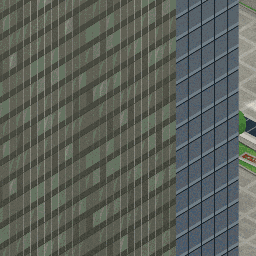
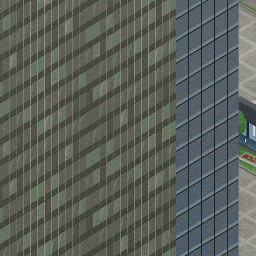
fix(teheran): rebuild the Samseong plaza to match street view
A full pass over the Naver street view frames showed the first version
was wrong in several places. The round Millennium Plaza is at grade, not
sunken: it has concentric paving, a dark stone kerb, groups of weathering
steel pylons and a polished steel sphere on a low plinth. The sunken part
is the crescent stair to the underground mall on its north-west side,
behind a white tiled parapet that rises to a prow at the south end.

The egg-shaped tower is silver-grey with a tilted metal hoop on top, not
white with a window. The white-rimmed rectangles are striped pavilions
standing in shallow pools, not skylights. Paving around the round plaza
is a multi-colour stone mosaic. The hotel forecourt has a row of
flagpoles and a pine garden instead of tents.

On the Teheran-ro side the yard now has the low grey wall, the folding
gate with the covered earth mound behind it and the near-vertical lattice
boom at the corner, and the roadside fence north of the bus stop is the
painted hoarding.

Tile 6_1 was re-rendered and patched onto the assets of 5d7ce945.

Changed region(s): [[0.9062, 0.375, 1.0, 0.625]]

diff --git a/src/maps.js b/src/maps.js
@@ -70,7 +70,7 @@ export const MAPS = {
       { name: '선릉·정릉', key: 'seolleung', vh: 460, note: '선릉과 정릉 — 빌딩 숲 속 조선 왕릉' },
       { name: '위워크타워', key: 'wework', vh: 260, note: '위워크타워 — 선릉과 포스코센터 사이' },
       { name: '삼성역', key: 'station_삼성', vh: 420, note: '삼성역 — GTX 복합환승센터와 현대차 신사옥 공사 현장' },
-      { name: '삼성역 광장', key: 'millennium', vh: 150, note: '삼성역 광장 — 코엑스 밀레니엄 광장의 선큰 마당과 달걀꼴 조형탑, 출구 앞 공사 야적장' },
+      { name: '삼성역 광장', key: 'millennium', vh: 150, note: '삼성역 광장 — 밀레니엄 광장의 강철 기둥과 은빛 구, 달걀꼴 조형탑, 출구 앞 공사 야적장' },
       { name: '코엑스', key: 'coex', vh: 420, note: '코엑스와 트레이드타워' },
       { name: '역삼역', key: 'station_역삼', vh: 340, note: '역삼역 — 강남파이낸스센터' },
       { name: '강남역', key: 'station_강남', vh: 380, note: '강남역 — 테헤란로가 시작하는 곳' },

diff --git a/pipeline3d/teheran/plaza_samseong.py b/pipeline3d/teheran/plaza_samseong.py
@@ -1,18 +1,18 @@
 # 삼성역 광장 빌더(무역센터 동남쪽 모퉁이). lm_build.py 끝에서 exec 로 읽는다(같은 전역: MB, mat_flat, skin, capf, obox, beam, taper, excavator, dumptruck, containers, _pits …).
 # 자리·윤곽은 scene.json 의 'samseong'(prep_extra.py 가 위성 사진에서 따 온 값), 여기서는 형태·높이·색을 정한다.
 # 네이버 지도 거리뷰(2026-07 촬영분: 영동대로 중앙 버스 정류장, 테헤란로 삼성역 사거리, 6번 출구 앞)와 위성 사진을 눈으로 보고 맞췄다. 사진은 저장소에 넣지 않았다. 글자·로고는 넣지 않는다.
-#   - 밀레니엄 광장: 타원꼴 선큰 마당(둘레 벽 = 지하 상가 전면, 서쪽 계단, 가운데 분수대), 그 남쪽의 달걀꼴 흰 조형탑
-#   - 코엑스 동측 광장: 회색 화강석 판석(5 m 마다 밝은 띠), 길가 잔디 띠와 엇갈린 잔디 네모, 아티움 앞 화단 띠와 붉은 꽃밭, 지하 상가 채광창, 가로등
+#   - 밀레니엄 광장: 지면 높이의 원형 광장(동심 판석, 검은 돌 턱, 둘레의 내후성 강판 기둥, 세 단 받침 위 스테인리스 구), 서북쪽을 감싸는 초승달꼴 내리막 계단(흰 난간벽), 남쪽의 달걀꼴 흰 조형탑
+#   - 코엑스 동측 광장: 회색 화강석 판석(5 m 마다 밝은 띠), 남쪽은 여러 색 돌 모자이크, 길가 잔디 띠와 엇갈린 잔디 네모, 아티움 앞 화단 띠와 붉은 꽃밭, 얕은 못 가운데 선 줄무늬 파빌리온, 붉은 꽃 화분, 가로등
 #   - 5·6번 출구 앞 모퉁이: 복합환승센터 공사 야적장(가림벽·색 블록 벽화 담장, 파란 천막 창고, 현장 사무실 컨테이너, 초록 방진 덮개 흙더미, 크롤러 크레인, 펌프카)
-#   - 호텔 앞: 둥근 화단과 흰 천막 줄, 유리 원형 지붕
-# 연출·추정: 선큰 마당 깊이(실제 약 5 m → 1.4 m), 조형탑 높이 17 m, 야적장 안 장비·자재의 자리와 수, 담장 벽화의 무늬, 가로등 자리.
+#   - 호텔 앞: 소나무 화단, 깃대 줄, 유리 원형 지붕, 테헤란로 가의 플라스틱 방호벽
+# 광장 안쪽은 공사 전(2017-08) 보행 거리뷰만 있어, 지금 위성 사진에 그대로 남아 있는 것(원형 광장·계단·파빌리온·조형탑)만 그 화면을 따랐다.
+# 연출·추정: 초승달 계단 깊이(실제 약 5 m → 1.4 m), 조형탑 높이 17 m, 기둥 수와 자리, 야적장 안 장비·자재의 자리와 수, 담장 벽화의 무늬, 가로등 자리.
 SS = S.get('samseong')
 if SS and inwin(SS['court']['c'], 45.0, 200.0):
     NVp, Q0p = np.array(SS['nv']), np.array(SS['q0']); EVp = np.array([NVp[1], -NVp[0]]); CRT = SS['court']; CC = np.array(CRT['c'])
     def rdp(s, d): return Q0p + NVp * s - EVp * d                       # 영동대로 남행 차로 중심선 기준(prep_extra 의 rd)
-    def EP(f, t, z): return (CC[0] + CRT['a'] * f * math.cos(t), CC[1] + CRT['b'] * f * math.sin(t), z)   # 선큰 마당 타원 위의 점(f = 반지름 비)
+    def EP(f, t, z): return (CC[0] + CRT['a'] * f * math.cos(t), CC[1] + CRT['b'] * f * math.sin(t), z)   # 원형 광장 타원 위의 점(f = 반지름 비)
     NE_ = 60; COURT = Polygon([EP(1.0, 2 * math.pi * k / NE_, 0)[:2] for k in range(NE_)])
-    STA0, STA1 = 150.0, 210.0                                           # 서쪽 계단이 놓이는 각도 범위
     def esec(a0=0.0, a1=360.0): return [(math.radians(k * 360 / NE_), math.radians((k + 1) * 360 / NE_)) for k in range(NE_) if a0 <= k * 360 / NE_ < a1]
     def ering(mb, f0, f1, z, m, a0=0.0, a1=360.0):                      # 수평 타원 고리(안 f0 → 밖 f1)
         for t0, t1 in esec(a0, a1): mb.face([EP(f0, t0, z), EP(f1, t0, z), EP(f1, t1, z), EP(f0, t1, z)], m)
@@ -45,7 +45,8 @@ if SS and inwin(SS['court']['c'], 45.0, 200.0):
         if not os.path.exists(p): im = Image.new('RGB', (w, h), bg); draw(ImageDraw.Draw(im), w, h); im.save(p)
         return p
 
-    # ---- 바닥: 화강석 판석(길 방향으로 놓인 1.25 m 판, 5 m 마다 밝은 띠). 지면 ID(1) → 분류 맵에서 보행 광장으로 읽힌다 ----
+    # ---- 바닥(지면 ID 1 → 분류 맵에서 보행 광장으로 읽힌다) ----
+    # 북쪽(코엑스 동측 광장): 밝은 회색 화강석 판석, 5 m 마다 밝은 띠. 남쪽(밀레니엄 광장 둘레): 베이지·분홍·회색·검은 돌이 섞인 모자이크 판석
     PM = 10.0
     def _pave(d, w, h):
         rnd = random.Random(7); q = w // 8
@@ -55,71 +56,97 @@ if SS and inwin(SS['court']['c'], 45.0, 200.0):
         bw = int(.34 * w / PM)
         for k in (0, 4):
             for c0 in ((k * q - bw, k * q + bw), (k * q - bw + w, k * q + bw + w)): d.rectangle([c0[0], 0, c0[1], h], fill='#ebeae4'); d.rectangle([0, c0[0], w, c0[1]], fill='#ebeae4')
-    pmat = mat_tex(tex_png('pave', 240, 240, '#d3d2cc', _pave), 'ss_pave')
+    def _mosaic(d, w, h):
+        rnd = random.Random(23); q = w // 8; cols = ['#dbd3c1'] * 5 + ['#cbcac0'] * 4 + ['#c78169'] * 2 + ['#b1968a'] + ['#8f9194'] * 2 + ['#e6e1d2'] * 2
+        for i in range(8):
+            for j in range(8): d.rectangle([i * q, j * q, (i + 1) * q - 1, (j + 1) * q - 1], fill=rnd.choice(cols))
+        for _ in range(9): i, j = rnd.randrange(7), rnd.randrange(8); d.rectangle([i * q, j * q, (i + 2) * q - 1, (j + 1) * q - 1], fill=rnd.choice(cols))   # 두 칸짜리 긴 판
+        d.rectangle([3 * q, 0, 3 * q + q // 2, h], fill='#7d7f82')   # 길 방향으로 이어지는 검은 돌 줄
+    pmat = mat_tex(tex_png('pave', 240, 240, '#d3d2cc', _pave), 'ss_pave'); mmat = mat_tex(tex_png('mosaic', 240, 240, '#dbd3c1', _mosaic), 'ss_mosaic')
     green = unary_union([Polygon(r) for r in list(SS['lawn'].values()) + list(SS['bed'].values())])
     road = unary_union([ln.buffer(r['w'] / 2 + .7, cap_style=2) for ln, r in _DRV if ln.distance(Point(*CC)) < 230] + [Point(0, 0).buffer(.01)])
-    slabp = P(SS['pave']).difference(unary_union([green, COURT.buffer(.35), road])).buffer(0)
+    ST = SS['stair']; SA0, SA1 = math.radians(ST['a0']), math.radians(ST['a1'])
+    def SP(t, out, z): return (CC[0] + ST['a'] * math.cos(t), CC[1] + ST['b'] * math.sin(t), z) if out else EP(ST['f'], t, z)   # 초승달 계단의 바깥·안쪽 호
+    NS = 28; STT = [SA0 + (SA1 - SA0) * k / NS for k in range(NS + 1)]
+    STAIR = Polygon([SP(t, True, 0)[:2] for t in STT] + [SP(t, False, 0)[:2] for t in STT[::-1]])
+    pools = unary_union([Polygon([np.array(w_['c']) + NVp * u * (w_['hl'] + 2.0) + EVp * v * (w_['hw'] + 2.0) for u, v in ((-1, -1), (1, -1), (1, 1), (-1, 1))]) for w_ in SS['pavs']])
+    slabp = P(SS['pave']).difference(unary_union([green, COURT, STAIR.buffer(.05), pools, road])).buffer(0); SOUTH = box(1000.0, 300.0, 1400.0, 547.5).intersection(Point(*CC).buffer(40.0))   # 모자이크 판석은 원형 광장 둘레만(그 밖은 회색 판석)
     mb = MB()
-    for g in parts(slabp):
-        if g.area < 1: continue
-        for t in shapely.constrained_delaunay_triangles(g).geoms:
-            q = list(orient(t, 1.0).exterior.coords)[:-1]
-            mb.face([(x, y, .03) for x, y in q], pmat, [(((x - Q0p[0]) * EVp[0] + (y - Q0p[1]) * EVp[1]) / PM, ((x - Q0p[0]) * NVp[0] + (y - Q0p[1]) * NVp[1]) / PM) for x, y in q])
+    for zone, m_ in ((slabp.difference(SOUTH), pmat), (slabp.intersection(SOUTH), mmat)):
+        for g in parts(zone):
+            if g.area < 1: continue
+            for t in shapely.constrained_delaunay_triangles(g).geoms:
+                q = list(orient(t, 1.0).exterior.coords)[:-1]
+                mb.face([(x, y, .03) for x, y in q], m_, [(((x - Q0p[0]) * EVp[0] + (y - Q0p[1]) * EVp[1]) / PM, ((x - Q0p[0]) * NVp[0] + (y - Q0p[1]) * NVp[1]) / PM) for x, y in q])
     for k, r in SS['lawn'].items(): curb(mb, Polygon(r), .22 if k != 'strip' else .16)
-    # 선큰 마당 바닥과 서쪽 계단(지면 ID): 동심 타원 띠, 계단은 디딤판 색을 번갈아 준다
-    FZ = -1.4; NST = 5; SF = .058   # 바닥 높이: 굽기(step_maps)가 −1.55 m 보다 낮은 지면을 물로 읽으므로 그보다 얕게 둔다
-    for f0, f1, col in ((.0, .34, '#bdb8ac'), (.34, .38, '#8f8c85'), (.38, .68, '#d6d2c7'), (.68, .72, '#8f8c85')): ering(mb, f0, f1, FZ, mat_flat(col))
-    ering(mb, .72, 1.0, FZ, mat_flat('#c8c3b7'), 0.0, STA0); ering(mb, .72, 1.0, FZ, mat_flat('#c8c3b7'), STA1, 360.0)
-    for k in range(NST):
-        zk = FZ * (k + 1) / NST; f_out, f_in = 1.0 - SF * k, 1.0 - SF * (k + 1)
-        if k < NST - 1: ering(mb, f_in, f_out, zk, mat_flat('#e2dfd6' if k % 2 else '#c9c5ba'), STA0, STA1)
-        ewall(mb, f_out, zk, FZ * k / NST, mat_flat('#aeaaa0'), STA0, STA1)
-    ering(mb, .72, 1.0 - SF * (NST - 1), FZ, mat_flat('#c8c3b7'), STA0, STA1)
+    # 원형 광장 바닥: 동심 띠(밝은 판석 사이 검은 돌 고리)
+    for f0, f1, col in ((.0, .30, '#c9c8c2'), (.30, .35, '#7d7f82'), (.35, .64, '#d5d3cb'), (.64, .69, '#7d7f82'), (.69, 1.0, '#c6c4bb')): ering(mb, f0, f1, .03, mat_flat(col))
+    # 초승달 계단(지면 ID): 남쪽 끝에서 내려가 북서쪽(에스컬레이터 덮개 밑)이 가장 낮고, 북쪽 끝에서 다시 올라온다
+    FZ = -1.4   # 바닥 높이: 굽기(step_maps)가 −1.55 m 보다 낮은 지면을 물로 읽으므로 그보다 얕게 둔다
+    SZ = [FZ * min(1.0, (k + 1) / 3.0, (NS - k) / 8.0) for k in range(NS)]   # 조각마다의 디딤판 높이(북쪽 세 단, 남쪽 일곱 단)
+    for k in range(NS):
+        t0, t1, z = STT[k], STT[k + 1], SZ[k]; zp = SZ[k - 1] if k else 0.0
+        mb.face([SP(t0, True, z), SP(t0, False, z), SP(t1, False, z), SP(t1, True, z)], mat_flat('#d9d6cd' if k % 2 else '#c6c3ba'))
+        if abs(z - zp) > .01: mb.face([SP(t0, False, min(z, zp)), SP(t0, True, min(z, zp)), SP(t0, True, max(z, zp)), SP(t0, False, max(z, zp))], mat_flat('#a9a69d'))
+    mb.face([SP(STT[NS], False, SZ[-1]), SP(STT[NS], True, SZ[-1]), SP(STT[NS], True, 0.0), SP(STT[NS], False, 0.0)], mat_flat('#a9a69d'))
     mb.build('ss_ground', 1)
 
-    # ---- 밀레니엄 광장: 둘레 벽(지하 상가 전면: 밝은 기둥 사이 짙은 유리), 돌 테두리 + 유리 난간, 분수대, 벤치, 파라솔 ----
-    def _arcade(d, w, h):   # 한 칸 3.2 m: 왼쪽 기둥, 위쪽 돌 띠, 유리 가운데 문틀 선
-        d.rectangle([0, 0, w, 7], fill='#e6e2d8'); d.rectangle([0, 0, 13, h], fill='#e0dcd2'); d.line([(13, 20), (w, 20)], fill='#5d6c7c', width=1); d.line([((w + 13) // 2, 8), ((w + 13) // 2, h)], fill='#5d6c7c', width=1)
-    mb = MB(); wtw, wth = 3.2, -FZ; am = mat_tex(tex_png('arcade', 77, 42, '#3a4756', _arcade), 'ss_arcade')
-    for a0, a1 in ((0.0, STA0), (STA1, 360.0)):
-        ewall(mb, 1.0, FZ, 0.0, am, a0, a1, wtw, wth); ering(mb, 1.0, 1.035, .14, mat_flat('#e9e6dd'), a0, a1)
-        for t0, t1 in esec(a0, a1):
-            a, b = EP(1.035, t0, 0), EP(1.035, t1, 0); mb.face([(a[0], a[1], 0), (b[0], b[1], 0), (b[0], b[1], .14), (a[0], a[1], .14)], mat_flat('#cfccc3'))
-            a, b = EP(1.02, t0, 0), EP(1.02, t1, 0); mb.face([(a[0], a[1], .14), (b[0], b[1], .14), (b[0], b[1], 1.15), (a[0], a[1], 1.15)], mat_flat('#7da8b8'))
-    for a_ in (STA0, STA1):   # 계단 양옆 날개벽
-        t = math.radians(a_); p0, p1 = EP(1.0, t, 0), EP(1.0 - SF * (NST - 1), t, 0); mb.face([(p1[0], p1[1], FZ), (p0[0], p0[1], FZ), (p0[0], p0[1], .14), (p1[0], p1[1], FZ + .5)], mat_flat('#dcd8ce'))
-    mb.cyl((CC[0], CC[1], FZ), 2.9, .42, mat_flat('#8c8f92'), mat_flat('#a3a6a8'), n=24); mb.cyl((CC[0], CC[1], FZ + .42), 2.35, .06, mat_flat('#7cbefa'), n=24)   # 분수대
-    mb.cyl((CC[0], CC[1], FZ + .4), .42, 2.3, mat_flat('#d2d6d8'), n=10); blob(mb, (CC[0], CC[1], FZ + 3.3), .95, mat_flat('#e3e6e7'), 1.0, 10)
-    for k in range(8):
-        t = math.radians(22.5 + k * 45); p = EP(.53, t, FZ); mb.box(p, 1.15, .28, .45, mat_flat('#756049'), t + math.pi / 2, mat_flat('#998666'))
-    for k, col in enumerate(('#fbfaf2', '#b6573c', '#fbfaf2', '#6ea8dd', '#fbfaf2', '#efbe3e')):   # 북동쪽 벽 앞 파라솔(상가 앞 자리)
-        t = math.radians(18 + k * 21); p = EP(.86, t, FZ); mb.cyl(p, .06, 2.1, mat_flat('#8d9296'), n=5); taper(mb, p, np.array([1.0, 0.0]), 1.35, 1.35, .08, .08, FZ + 2.0, FZ + 2.75, mat_flat(col))
-    toonify(mb.build('ss_court', 9760)); META[9760] = 'landmark:millennium'
-    _pits.append(COURT); NOSKIRT = COURT.buffer(3.0)   # 지면 판에서 타원을 도려내고, 비탈 대신 위의 수직 벽을 쓴다
+    # ---- 밀레니엄 광장: 원형 광장의 돌 턱, 강철 기둥(내후성 강판, 높이 7–8 m), 계단꼴 받침 위 스테인리스 구, 초승달 계단의 흰 난간벽 ----
+    mb = MB()
+    for a0, a1 in ((340.0, 360.0), (0.0, 20.0), (70.0, 95.0), (235.0, 290.0)):   # 검은 화강석 턱(앉는 높이). 나머지 둘레는 열려 있다
+        ewall(mb, 1.0, 0.0, .45, mat_flat('#5d6166'), a0, a1); ering(mb, 1.0, 1.05, .45, mat_flat('#6f7377'), a0, a1)
+        for t0, t1 in esec(a0, a1): a, b = EP(1.05, t0, 0), EP(1.05, t1, 0); mb.face([(a[0], a[1], 0), (b[0], b[1], 0), (b[0], b[1], .45), (a[0], a[1], .45)], mat_flat('#5d6166'))
+    for k, a_ in enumerate((18, 30, 41, 53, 66, 80, 196, 208, 221, 235, 250, 263, 277)):   # 강철 기둥: 북동쪽과 남서쪽에 두 무리로 줄지어 선다(거리뷰에서 센 수는 열두어 개)
+        t = math.radians(a_); p = EP(.78 + .05 * (k % 2), t, 0); tg = np.array([-math.sin(t), math.cos(t)]); obox(mb, p[:2], tg, .32, .16, 0, 4.4 + (k * 7 % 5) * .45, mat_flat('#523d2d'), mat_flat('#67523e'))
+    for r_, z_ in ((2.6, .0), (1.9, .18)): mb.cyl((CC[0], CC[1], z_ + .03), r_, .18, mat_flat('#55595e'), mat_flat('#6f7377'), n=24)   # 낮고 검은 두 단 받침
+    blob(mb, (CC[0], CC[1], .4 + 1.15), 1.15, mat_flat('#dde3e3'), 1.0, 14)                                                                # 스테인리스 구
+    for a0, a1 in ((120.0, 170.0), (296.0, 334.0)):   # 둘레 안쪽의 긴 곡선 벤치
+        for t0, t1 in esec(a0, a1): a, b = EP(.93, t0, .03), EP(.93, t1, .03); beam(mb, (a[0], a[1], .42), (b[0], b[1], .42), .5, mat_flat('#756049'), .1); beam(mb, (a[0], a[1], .2), ((a[0] + b[0]) / 2, (a[1] + b[1]) / 2, .2), .12, mat_flat('#55595e'), .4)
+    wm = mat_flat('#f1efe9')
+    def ph(k): return 1.2 + 2.3 * max(0.0, (k - (NS - 6)) / 6.0)   # 난간벽 높이: 남쪽 끝으로 갈수록 솟는 흰 뱃머리꼴(거리뷰: 사람 키의 두 배쯤)
+    for k in range(NS):   # 초승달 계단 둘레: 구덩이 안쪽 벽 + 흰 타일 난간벽
+        t0, t1 = STT[k], STT[k + 1]; h0, h1 = ph(k), ph(k + 1)
+        for out in (True, False):
+            a, b = np.array(SP(t0, out, 0)[:2]), np.array(SP(t1, out, 0)[:2]); sg = .32 if out else -.32
+            na, nb = (a - CC) / np.hypot(*(a - CC)) * sg, (b - CC) / np.hypot(*(b - CC)) * sg; oa, ob = a + na, b + nb
+            q = [(*a, FZ), (*b, FZ), (*b, h1), (*a, h0)]; mb.face(q[::-1] if out else q, wm)            # 계단 쪽 면
+            q = [(*oa, 0), (*ob, 0), (*ob, h1), (*oa, h0)]; mb.face(q if out else q[::-1], wm)           # 광장 쪽 면
+            mb.face([(*a, h0), (*b, h1), (*ob, h1), (*oa, h0)], mat_flat('#fbfaf5'))
+    a, b = SP(STT[NS], True, 0), SP(STT[NS], False, 0); mb.face([(a[0], a[1], 0), (b[0], b[1], 0), (b[0], b[1], ph(NS)), (a[0], a[1], ph(NS))], wm)   # 남쪽 끝 마구리
+    o_ = toonify(mb.build('ss_court', 9760)); smooth_obj(o_, 40.0); META[9760] = 'landmark:millennium'
+    _pits.append(STAIR); NOSKIRT = STAIR.buffer(3.0)   # 지면 판에서 계단 자리를 도려내고, 비탈 대신 위의 수직 벽을 쓴다
 
-    # ---- 달걀꼴 조형탑: 흰 돌 켜, 위쪽에 남쪽을 보는 푸른 타원 창 ----
+    # ---- 달걀꼴 조형탑(거리뷰: 은회색 판을 켜켜이 붙인 길쭉한 달걀꼴, 꼭대기에 비스듬히 걸친 금속 고리, 낮고 검은 둥근 받침) ----
     eg = SS['egg']; ex_, ey_ = eg['c']; EH, ER = eg['h'], eg['r']; mb = MB(); n = 18; prev = None
-    def er(t): return ER * (.70 + .30 * math.sin(math.pi / 2 * t / .58)) if t < .58 else ER * math.sqrt(max(0.0, 1 - ((t - .58) / .42) ** 2.3))
-    mb.cyl((ex_, ey_, 0), ER * 1.45, .3, mat_flat('#bdbab1'), mat_flat('#d5d2c9'), n=20)
-    NR = 16
+    def er(t): return ER * (.52 + .48 * math.sin(math.pi / 2 * t / .42)) if t < .42 else ER * max(0.0, 1 - ((t - .42) / .58) ** 2.0) ** .62   # 아래 2/5 가 가장 굵고 위로 뾰족하게 준다
+    mb.cyl((ex_, ey_, 0), ER * 1.5, .35, mat_flat('#55595e'), mat_flat('#6f7377'), n=20)
+    NR = 18
     for j in range(NR + 1):
-        t = j / NR; r_ = max(.05, er(t)); ring = [(ex_ + r_ * math.cos(2 * math.pi * k / n), ey_ + r_ * math.sin(2 * math.pi * k / n), .3 + EH * t) for k in range(n)]
+        t = j / NR; r_ = max(.05, er(t)); ring = [(ex_ + r_ * math.cos(2 * math.pi * k / n), ey_ + r_ * math.sin(2 * math.pi * k / n), .35 + EH * t) for k in range(n)]
         if prev:
-            m_ = mat_flat('#ecebe6' if j % 2 else '#deddd6')
+            m_ = mat_flat('#d5d1c3' if j % 2 else '#c6c4bb')
             for k in range(n): mb.face([prev[k], prev[(k + 1) % n], ring[(k + 1) % n], ring[k]], m_)
         prev = ring
-    mb.face(prev, mat_flat('#ecebe6'))
-    ed = np.array([-.22, -.975]); ed /= np.hypot(*ed); eu = np.array([-ed[1], ed[0]]); tz = .73; rz = er(tz)   # 창: 표면보다 조금 밖에, 위로 젖혀서
-    for rr_, col, off in ((1.0, '#394f63', .06), (.8, '#6ea8dd', .12)):
-        cen = np.array([ex_ + ed[0] * (rz + off), ey_ + ed[1] * (rz + off), .3 + EH * tz])
-        mb.face([tuple(cen + np.array([*(eu * 1.25 * rr_ * math.cos(a)), 0]) + np.array([*(-ed * .2), .98]) * 1.9 * rr_ * math.sin(a)) for a in np.linspace(0, 2 * math.pi, 14, endpoint=False)], mat_flat(col))
+    mb.face(prev, mat_flat('#d5d1c3'))
+    ed = np.array([-.22, -.975]); ed /= np.hypot(*ed); eu = np.array([-ed[1], ed[0]]); hc = np.array([ex_, ey_, .35 + EH * .88])   # 고리: 꼭대기를 남쪽으로 기울여 두른 금속 띠
+    hp = [tuple(hc + np.array([*(eu * 2.3 * math.cos(a)), 0]) + np.array([*(ed * .55), .84]) * 2.9 * math.sin(a)) for a in np.linspace(0, 2 * math.pi, 20, endpoint=False)]
+    for k in range(20): beam(mb, hp[k], hp[(k + 1) % 20], .42, mat_flat('#6f7377'))
     o_ = toonify(mb.build('ss_egg', 9761)); smooth_obj(o_, 60.0); META[9761] = 'landmark:plaza_art'
 
-    # ---- 광장 시설: 채광창, 에스컬레이터 덮개, 꽃밭, 가로등, 벤치, 호텔 앞 화단·천막·유리 지붕 ----
+    # ---- 광장 시설: 파빌리온, 화분, 에스컬레이터 덮개, 꽃밭, 가로등, 벤치, 호텔 앞 화단·천막·유리 지붕 ----
     mb = MB()
-    for w_ in SS['wells']:   # 지하 상가 채광창: 흰 돌 턱 + 짙은 유리(멀리언 두 줄)
-        c = np.array(w_['c']); obox(mb, c, NVp, w_['hl'], w_['hw'], 0, .85, mat_flat('#d9d6cd'), mat_flat('#ecebe5')); obox(mb, c, NVp, w_['hl'] - .55, w_['hw'] - .55, .85, .9, mat_flat('#33404e'), mat_flat('#3d4b5b'))
-        for o in (-1, 0, 1): obox(mb, c + NVp * o * w_['hl'] * .5, NVp, .09, w_['hw'] - .55, .9, .95, mat_flat('#9aa5ad'))
+    def _stripe(d, w, h):   # 4.4 m 한 벌: 청록 벽에 검은 띠 둘, 위쪽 흰 세로 날개 둘
+        for x0_ in (.25, .75): d.rectangle([int(w * x0_), 0, int(w * (x0_ + .125)), h], fill='#22272b')
+        for x0_ in (.09, .59): d.rectangle([int(w * x0_), 0, int(w * (x0_ + .07)), int(h * .62)], fill='#f1efe9')
+        d.rectangle([0, h - 5, w, h], fill='#2f3438')
+    sm = mat_tex(tex_png('stripe', 106, 82, '#7da8b8', _stripe), 'ss_stripe')
+    for w_ in SS['pavs']:   # 얕은 못(검은 돌 턱 + 물) 가운데 선 줄무늬 파빌리온. 거리뷰: 청록 판에 검은 띠와 흰 세로 날개, 짙은 평지붕
+        c = np.array(w_['c']); obox(mb, c, NVp, w_['hl'] + 2.0, w_['hw'] + 2.0, 0, .34, mat_flat('#5d6166'), mat_flat('#6f7377')); obox(mb, c, NVp, w_['hl'] + 1.65, w_['hw'] + 1.65, .34, .36, mat_flat('#7da8b8'), mat_flat('#7da8b8'))
+        g = orient(Polygon([c + NVp * u * w_['hl'] + EVp * v * (w_['hw'] - .2) for u, v in ((-1, -1), (1, -1), (1, 1), (-1, 1))]), 1.0); skin(mb, g, .3, lambda x, y: 3.5, sm, 4.4, 3.4)
+        obox(mb, c, NVp, w_['hl'] + .3, w_['hw'] + .1, 3.5, 3.7, mat_flat('#3b4046'), mat_flat('#4a5057'))
+        for u, v in ((-.6, 1), (.2, 1), (.7, -1), (-.2, -1)): q = c + NVp * u * (w_['hl'] + 1.0) + EVp * v * (w_['hw'] + 1.0); mb.cyl((q[0], q[1], .36), .07, .5, mat_flat('#fdfdf3'), n=4)   # 분수 물줄기
+    for p in ((1180.5, 542.0), (1199.5, 541.0), (1207.0, 527.5), (1176.5, 499.5), (1196.0, 567.5), (1189.5, 589.0), (1181.0, 608.0)):   # 붉은 꽃을 심은 큰 화분(검은 대접꼴)
+        taper(mb, p, np.array([1.0, 0.0]), .55, .55, 1.25, 1.25, 0, .65, mat_flat('#3b4046')); blob(mb, (p[0], p[1], .7), 1.15, mat_flat('#b6573c'), .45, 8); blob(mb, (p[0] + .3, p[1] - .2, .85), .6, mat_flat('#c78169'), .5, 6)
     cn = SS['canopy']; ca = np.array(cn['ax']) / np.hypot(*cn['ax']); cv = np.array([-ca[1], ca[0]]); c = np.array(cn['c'])   # 덮개: 유리 벽 + 둥근 유리 지붕
     for sv in (-1, 1): obox(mb, c + cv * sv * cn['hw'], ca, cn['hl'], .08, 0, 2.5, mat_flat('#7da8b8'))
     prof_ = [(cn['hw'] * math.cos(math.pi * j / 6), 2.5 + 1.0 * math.sin(math.pi * j / 6)) for j in range(7)]
@@ -139,30 +166,21 @@ if SS and inwin(SS['court']['c'], 45.0, 200.0):
     def lamp(p, h=7.0):
         mb.cyl((p[0], p[1], 0), .11, h, mat_flat('#59616a'), n=5); mb.box((p[0], p[1], h), .55, .2, .16, mat_flat('#e9ecee'), math.atan2(NVp[1], NVp[0]) + math.pi / 2)
     for s_ in np.arange(104.0, 212.0, 15.0): lamp(rdp(s_, SS['edge'] + 6.2))                               # 길가 가로등 줄
-    for a_ in (35, 80, 125, 235, 280, 325): lamp(EP(1.2, math.radians(a_), 0)[:2], 6.0)                    # 선큰 마당 둘레
+    for a_ in (35, 55, 305, 335): lamp(EP(1.32, math.radians(a_), 0)[:2], 6.0)                              # 원형 광장 동쪽 둘레
     for s_, d_ in ((112.0, 16.5), (126.0, 20.5), (140.0, 15.5), (156.0, 15.0), (170.0, 14.5)):             # 벤치(길 방향)
         p = rdp(s_, d_); obox(mb, p, NVp, 1.2, .26, 0, .45, mat_flat('#756049'), mat_flat('#998666'))
-    tn = SS['tents']; tc = np.array(tn['c'])
-    def tent(p, ang, s=2.25):   # 흰 사각뿔 천막
-        ax = np.array([math.cos(ang), math.sin(ang)]); nv = np.array([-ax[1], ax[0]])
-        for u, v in ((-1, -1), (1, -1), (1, 1), (-1, 1)): q = np.array(p) + ax * u * (s - .15) + nv * v * (s - .15); mb.cyl((q[0], q[1], 0), .06, 2.5, mat_flat('#a9adb0'), n=4)
-        obox(mb, p, ax, s, s, 2.45, 2.7, mat_flat('#eeece6')); taper(mb, p, ax, s, s, .12, .12, 2.7, 4.3, mat_flat('#f6f4ee'))
-    for k in range(tn['n']):
-        a_ = math.radians(tn['a0'] + (tn['a1'] - tn['a0']) * k / (tn['n'] - 1)); tent(tc + tn['r'] * np.array([math.cos(a_), math.sin(a_)]), a_)
-    for p in tn['more']: tent(p, math.atan2(NVp[1], NVp[0]))
+    for k, p in enumerate(SS['flags']):   # 호텔 진입로의 깃대 줄(거리뷰: 흰 깃대 여덟 개 남짓)
+        mb.cyl((p[0], p[1], 0), .08, 9.0, mat_flat('#eceae4'), n=5); fd_ = np.array([.94, .34]) * 1.5
+        mb.face([(p[0], p[1], 7.6), (p[0] + fd_[0], p[1] + fd_[1], 7.6), (p[0] + fd_[0], p[1] + fd_[1], 8.8), (p[0], p[1], 8.8)], mat_flat(('#fdfdf3', '#6ea8dd', '#fdfdf3', '#b6573c')[k % 4]))
+    for k in range(4): p = SS['stone']; obox(mb, np.array(p) + np.array([.12, -.08]) * (k % 2), (math.cos(.3 * k), math.sin(.3 * k)), .62, .62, k * 1.2, k * 1.2 + 1.15, mat_flat('#caaf88' if k % 2 else '#dbc197'))   # 돌을 쌓아 올린 조형 기둥
+    for k in range(24): p = np.array([1147.0, 445.6]) + np.array([.96, .28]) * k * 1.5; mb.box((p[0], p[1], 0), .7, .25, .85, mat_flat('#b6573c' if k % 2 else '#f3f1ea'), math.atan2(.28, .96))   # 테헤란로 가 플라스틱 방호벽(주황·흰색)
     dm = SS['dome']; dc = np.array(dm['c'])   # 호텔 차 대는 곳의 유리 원형 지붕
     for k in range(6): a_ = 2 * math.pi * k / 6; mb.cyl((dc[0] + (dm['r'] - .6) * math.cos(a_), dc[1] + (dm['r'] - .6) * math.sin(a_), 0), .16, 5.2, mat_flat('#c9cdd0'), n=6)
     mb.cyl((dc[0], dc[1], 5.2), dm['r'], .35, mat_flat('#c9cdd0'), mat_flat('#6ea8dd'), n=24); mb.cyl((dc[0], dc[1], 5.55), dm['r'] * .55, .3, mat_flat('#7da8b8'), mat_flat('#7cbefa'), n=24)
     toonify(mb.build('ss_kit', 9763)); META[9763] = 'landmark:plaza_kit'
 
-    # ---- 길가 가림벽(광장과 영동대로 사이): 흰 강판 + 옥색 방음망. 야적장 북쪽 끝에서 꽃밭 앞까지 ----
-    mb = MB(); fl = LineString([rdp(93.0, SS['edge'] - .15), rdp(214.0, SS['edge'] - .15)])
-    wallrun(mb, fl, 0, 2.4, mat_flat('#eceae4'), .22); wallrun(mb, fl, 2.4, 3.5, mat_flat('#8fd9b6'), .08)
-    for s_ in np.arange(0, fl.length, 6.0): p = fl.interpolate(float(s_)); mb.cyl((p.x, p.y, 0), .09, 3.6, mat_flat('#9aa1a6'), n=4)
-    mb.build('ss_fence', 9765); META[9765] = 'landmark:site_fence'
-
-    # ---- 공사 야적장 ----
-    yard = Polygon(SS['yard']); mb = MB(); rnd = random.Random(1282)
+    # ---- 길가 가림벽(광장과 영동대로 사이). 거리뷰: 버스 정류장 뒤는 흰 강판 + 옥색 방음망, 그 북쪽은 색 글자 벽화를 그린 흰 담장 ----
+    mb = MB(); rnd = random.Random(1282)
     def _mural(dark):
         def f(d, w, h):
             r_ = random.Random(31 if dark else 17); cols = ['#5cac83', '#b6573c', '#efbe3e', '#394f63', '#6ea8dd'] + (['#f3f1ea'] * 2 if dark else [])
@@ -177,18 +195,28 @@ if SS and inwin(SS['court']['c'], 45.0, 200.0):
         return f
     MW_ = 24.0; mwh = mat_tex(tex_png('mural_w', 576, 62, '#f3f1ea', lambda d, w, h: (d.rectangle([0, h - 9, w, h], fill='#efbe3e'), _mural(False)(d, w, h))), 'ss_mural_w')
     mbk = mat_tex(tex_png('mural_k', 576, 62, '#1f2126', lambda d, w, h: (d.rectangle([0, h - 9, w, h], fill='#efbe3e'), _mural(True)(d, w, h))), 'ss_mural_k')
-    gate = Point(1188.0, 456.5).buffer(4.5); ring = yard.buffer(-.35).exterior.difference(gate)
+    fl = LineString([rdp(93.0, SS['edge'] - .15), rdp(152.0, SS['edge'] - .15)]); fl2 = LineString([rdp(152.0, SS['edge'] - .15), rdp(214.0, SS['edge'] - .15)])
+    wallrun(mb, fl, 0, 2.4, mat_flat('#eceae4'), .22); wallrun(mb, fl, 2.4, 3.5, mat_flat('#8fd9b6'), .08); wallrun(mb, fl2, 0, 2.6, mwh, .25, MW_, 2.6)
+    for s_ in np.arange(0, fl.length, 6.0): p = fl.interpolate(float(s_)); mb.cyl((p.x, p.y, 0), .09, 3.6, mat_flat('#9aa1a6'), n=4)
+    mb.build('ss_fence', 9765); META[9765] = 'landmark:site_fence'
+
+    # ---- 공사 야적장 ----
+    yard = Polygon(SS['yard']); mb = MB()
+    gl = LineString([(1199.9, 461.2), (1221.9, 469.5)]); gate = gl.buffer(1.3, cap_style=2); ring = yard.buffer(-.35).exterior.difference(gate)   # 테헤란로 쪽 출입문 자리
     maj = unary_union([ln for ln, r in _DRV if r['cls'] == 'major' and r['hw'] != 'primary_link' and ln.distance(yard) < 30]); th_ = unary_union([ln for ln, r in _DRV if r['name'] == '테헤란로' and ln.distance(yard) < 30])
     for ln in lines(ring):
         cs = list(ln.coords)
         for a, b in zip(cs[:-1], cs[1:]):
             seg = LineString([a, b]); mid = seg.interpolate(.5, normalized=True)
             if seg.length < .1: continue
-            if mid.distance(maj) < 12.5:   # 길 쪽: 벽화 담장(테헤란로 쪽 동쪽 절반은 검은 바탕)
-                dark = mid.distance(th_) < 12.5 and mid.x > 1205; wallrun(mb, seg, 0, 2.6, mbk if dark else mwh, .25, MW_, 2.6, flip=True)
+            if mid.distance(maj) < 12.5 and mid.distance(th_) < 12.5 and mid.x < 1200: wallrun(mb, seg, 0, 2.0, mat_flat('#c6c4bb'), .3)   # 테헤란로 서쪽 구간: 낮은 회색 가벽
+            elif mid.distance(maj) < 12.5:   # 길 쪽: 벽화 담장(테헤란로 쪽은 검은 바탕)
+                wallrun(mb, seg, 0, 2.6, mbk if mid.distance(th_) < 12.5 else mwh, .25, MW_, 2.6)
             else: wallrun(mb, seg, 0, 2.4, mat_flat('#eceae4'), .22); wallrun(mb, seg, 2.4, 3.5, mat_flat('#8fd9b6'), .08)
-    for sv in (-1, 1):   # 출입문 옆 주황 물통 방호벽
-        for k in range(3): p = np.array([1188.0, 456.5]) + np.array([.94, .35]) * sv * (5.2 + k * 1.1); mb.box((p[0], p[1], 0), .45, .3, .9, mat_flat('#efbe3e' if k % 2 else '#f3f1ea'))
+    gd = np.array(gl.coords[1]) - np.array(gl.coords[0]); gL = float(np.hypot(*gd)); gd /= gL   # 접이식 출입문(스테인리스 마름모 살): 기둥 + 엇갈린 살
+    for k in range(int(gL // 1.1) + 1):
+        p0 = np.array(gl.coords[0]) + gd * k * 1.1; mb.cyl((p0[0], p0[1], 0), .05, 1.75, mat_flat('#c1beb5'), n=4)
+        if k < int(gL // 1.1): p1 = p0 + gd * 1.1; beam(mb, (*p0, .25), (*p1, 1.6), .06, mat_flat('#cbcac0')); beam(mb, (*p0, 1.6), (*p1, .25), .06, mat_flat('#cbcac0'))
     FD = np.array(SS['fence'][2]) - np.array(SS['fence'][1]); FD /= np.hypot(*FD); FN = np.array([FD[1], -FD[0]])   # 서쪽 가림벽 방향(북북동)과 그 오른쪽(야적장 안쪽)
     def shed(c, ax, hl, hw, h, roof, wall='#dfe3e6'):   # 천막·판넬 창고: 낮은 벽 + 박공 지붕
         ax = np.array(ax) / np.hypot(*ax); nv = np.array([-ax[1], ax[0]]); c = np.array(c); obox(mb, c, ax, hl, hw, 0, h, mat_flat(wall))
@@ -211,17 +239,17 @@ if SS and inwin(SS['court']['c'], 45.0, 200.0):
             for j in range(rnd.randrange(1, 4)): obox(mb, np.array(p) + nv * i * (sy * 2 + .35), d, sx, sy, j * hz, j * hz + hz - .05, mat_flat(shade(col, 1 + rnd.uniform(-.08, .08))))
     ta = math.atan2(.352, .936)   # 테헤란로 방향
     stack((1241.0, 487.5), ta, 5, '#a9adb0'); stack((1244.5, 492.5), ta, 4, '#b9bcbd'); stack((1221.5, 482.5), ta, 4, '#a9adb0', 1.3)
-    stack((1168.0, 458.5), ta, 5, RUST, 2.6, .5, .4); stack((1200.0, 466.0), ta, 4, '#8d8f8c', 2.2, .6, .5); stack((1226.0, 474.5), ta, 3, '#c9a56a', 1.5, .9, .5)
-    for p_, n_ in (((1158.0, 462.0), 2), ((1209.0, 483.0), 3), ((1247.0, 501.5), 2)): containers(mb, p_, ta + (math.pi / 2 if n_ == 2 else 0), n_, rnd, 1)
-    for p_, s_ in (((1193.5, 480.0), 3.4), ((1215.0, 471.0), 2.8), ((1236.5, 482.0), 2.4)): obox(mb, p_, (math.cos(ta), math.sin(ta)), s_, 1.6, 0, 1.3, mat_flat('#47627c'), mat_flat('#6183a3'))   # 파란 방수포 덮은 자재
-    mc = np.array([1177.5, 467.0]); prev = None   # 초록 방진 덮개를 씌운 흙더미
+    stack((1168.0, 458.5), ta, 5, RUST, 2.6, .5, .4); stack((1178.0, 463.5), ta, 4, '#8d8f8c', 2.2, .6, .5); stack((1227.5, 476.0), ta, 3, '#f1efe9', 1.5, .9, .5)   # 철근, 강관, 흰 가림판 더미
+    for p_, n_ in (((1158.0, 462.0), 2), ((1229.0, 498.0), 3), ((1247.0, 501.5), 2)): containers(mb, p_, ta + (math.pi / 2 if n_ == 2 else 0), n_, rnd, 1)
+    for p_, s_ in (((1184.0, 476.5), 3.4), ((1193.0, 470.0), 2.8), ((1236.5, 482.0), 2.4)): obox(mb, p_, (math.cos(ta), math.sin(ta)), s_, 1.6, 0, 1.3, mat_flat('#47627c'), mat_flat('#6183a3'))   # 파란 방수포 덮은 자재
+    mc = np.array([1209.0, 477.0]); prev = None   # 초록 방진 덮개를 씌운 흙더미(거리뷰: 출입문 바로 뒤)
     for j, (rf, zf) in enumerate(((1.0, 0.0), (.78, .5), (.5, .86), (.2, 1.0))):
-        ring_ = [(mc[0] + 8.5 * rf * math.cos(2 * math.pi * k / 11 + .3) * (1 + .12 * math.sin(k * 2.1)), mc[1] + 5.2 * rf * math.sin(2 * math.pi * k / 11 + .3) * (1 + .1 * math.cos(k * 1.7)), 3.1 * zf) for k in range(11)]
+        ring_ = [(mc[0] + 7.6 * rf * math.cos(2 * math.pi * k / 11 + .3) * (1 + .12 * math.sin(k * 2.1)), mc[1] + 4.6 * rf * math.sin(2 * math.pi * k / 11 + .3) * (1 + .1 * math.cos(k * 1.7)), 3.1 * zf) for k in range(11)]
         if prev:
             for k in range(11): mb.face([prev[k], prev[(k + 1) % 11], ring_[(k + 1) % 11], ring_[k]], mat_flat('#569b4b' if (j + k) % 3 else '#65ad4e'))
         prev = ring_
     mb.face(prev, mat_flat('#65ad4e'))
-    excavator(mb, (1188.5, 468.5), 0.0, 2.6, '#efbe3e'); excavator(mb, (1231.0, 493.0), 0.0, .5, '#efbe3e'); dumptruck(mb, (1206.5, 474.5), 0.0, ta, rnd); dumptruck(mb, (1238.0, 505.0), 0.0, math.atan2(NVp[1], NVp[0]), rnd)
+    excavator(mb, (1220.5, 481.5), 0.0, 2.9, '#efbe3e'); excavator(mb, (1231.0, 493.0), 0.0, .5, '#efbe3e'); dumptruck(mb, (1189.0, 462.5), 0.0, ta, rnd); dumptruck(mb, (1238.0, 505.0), 0.0, math.atan2(NVp[1], NVp[0]), rnd)
     def crawler(p, ang, L=36.0, el=72.0, col='#4f9070'):   # 크롤러 크레인: 무한궤도 + 운전실 + 격자 붐(굵기는 그림에서 보이게 과장)
         d = np.array([math.cos(ang), math.sin(ang)]); nv = np.array([-d[1], d[0]]); p = np.array(p); m, dk = mat_flat(col), mat_flat(shade(col, .7))
         for sv in (-1, 1): obox(mb, p + nv * sv * 2.1, d, 3.6, .65, 0, 1.1, mat_flat('#33363a'))
@@ -234,7 +262,7 @@ if SS and inwin(SS['court']['c'], 45.0, 200.0):
             beam(mb, P4(t, -1, -1, w0), P4(t1, 1, -1, w1), .12, m); beam(mb, P4(t, -1, 1, w0), P4(t1, 1, 1, w1), .12, m); beam(mb, P4(t, -1, -1, w0), P4(t1, -1, 1, w1), .12, m); beam(mb, P4(t, 1, -1, w0), P4(t1, 1, 1, w1), .12, m)
         mast = np.array([*(p - d * 1.0), 3.3]); mt = mast + np.array([*(-d * 3.0), 9.0]); beam(mb, tuple(mast), tuple(mt), .3, dk); beam(mb, tuple(mt), tuple(tip), .09, mat_flat('#3a3a3c')); beam(mb, tuple(mt), (*(p - d * 3.8), 3.0), .09, mat_flat('#3a3a3c'))
         hk = tip - np.array([0, 0, 1.0]) * (tip[2] - 9.0); beam(mb, tuple(tip), tuple(hk), .08, mat_flat('#3a3a3c')); mb.box((hk[0], hk[1], hk[2] - 1.0), .35, .3, 1.0, mat_flat('#efbe3e'))
-    crawler((1239.0, 512.5), math.atan2(NVp[1], NVp[0]) + .5); crawler((1224.5, 478.0), 2.2, 30.0, 66.0)
+    crawler((1239.0, 512.5), math.atan2(NVp[1], NVp[0]) + .5, 40.0, 82.0)   # 거리뷰: 모퉁이에 거의 곧게 선 청록 격자 붐
     def pumpcar(p, ang, col='#b6573c'):   # 콘크리트 펌프카: 트럭 + 접이식 붐(세 마디)
         d = np.array([math.cos(ang), math.sin(ang)]); p = np.array(p); m = mat_flat(col)
         obox(mb, p, d, 4.6, 1.25, 0, 1.2, mat_flat('#2c2d30')); obox(mb, p + d * 3.4, d, 1.1, 1.2, 1.2, 3.0, mat_flat('#e9e9e4'), mat_flat('#c9c9c4')); obox(mb, p - d * .8, d, 2.6, 1.15, 1.2, 2.2, m)

diff --git a/pipeline3d/teheran/lm_build.py b/pipeline3d/teheran/lm_build.py
@@ -1,7 +1,7 @@
 # 테헤란로 지역 빌더. ../yeouido/gen_area.py 가 여의도 lm_build.py 다음에 exec 로 읽는다(같은 전역: MB, mat_flat, grid_tex, gtower, crystal, toonify, LMC, LMB, LMN …).
 # 높이·윤곽은 OSM. 색·입면 구성은 네이버 지도 거리뷰를 눈으로 보고 맞췄다(2026-11-12: 위워크타워, 트레이드타워, 아셈타워, 코엑스, 파르나스타워, 글라스타워, DB금융센터, 강남파이낸스센터, 포스코센터, GT타워, 센터필드, GS타워, 삼성 서초사옥).
 # 거리뷰에서 잘 안 보인 메리츠타워와 모든 옥상·꼭대기 형태는 추정이다. 사진은 저장소에 넣지 않았다. 글자·로고는 넣지 않는다.
-# 삼성역 광장(선큰 마당·조형탑·화단·공사 야적장)은 plaza_samseong.py 에 따로 있고, 이 파일 끝에서 읽는다.
+# 삼성역 광장(원형 광장·내리막 계단·조형탑·화단·공사 야적장)은 plaza_samseong.py 에 따로 있고, 이 파일 끝에서 읽는다.
 KBSF.clear(); LMC.clear(); LMB.clear(); LMN.clear()   # 여의도 전용 표(건물 순번·이름)를 비운다
 
 # ---------------- 격자 유리 타워 설정(gtower / crystal) ----------------
@@ -305,5 +305,5 @@ for _k, _a in enumerate(AR.get('dirt', [])):
                     for q in ([o] if o.geom_type == 'LineString' else [x for x in getattr(o, 'geoms', []) if x.geom_type == 'LineString']):
                         for i_, s_ in enumerate(np.arange(0, q.length, 2.4)): p_ = q.interpolate(float(s_)); mb.box((p_.x, p_.y, 0), .5, .25, .9, mat_flat('#f08a24' if i_ % 2 else '#f3f1ea'))
     if mb.f: mb.build('site%d' % _k, 9700 + _k); META[9700 + _k] = 'landmark:site_' + kind
-exec(compile(open(AREA + '/plaza_samseong.py', encoding='utf-8').read(), AREA + '/plaza_samseong.py', 'exec'))   # 삼성역 광장(선큰 마당은 _pits 에 더한다)
+exec(compile(open(AREA + '/plaza_samseong.py', encoding='utf-8').read(), AREA + '/plaza_samseong.py', 'exec'))   # 삼성역 광장(내리막 계단 자리는 _pits 에 더한다)
 if _pits: WATERc = unary_union([WATERc] + _pits)   # 굴착 자리는 지면 판에서 도려낸다(gen_area 가 물가처럼 5.5 m 비탈을 두른다). 텍스처는 그대로 흙색

diff --git a/pipeline3d/teheran/build_assets_th.py b/pipeline3d/teheran/build_assets_th.py
@@ -20,7 +20,7 @@ LM_OBJ = [('wework', '위워크타워(선릉)', 'tower', ['landmark:wework']), (
           ('db', 'DB금융센터', 'tower', ['landmark:db']), ('posco', '포스코센터', 'tower', ['landmark:posco_e', 'landmark:posco_w']), ('gt', 'GT타워', 'tower', ['landmark:gt']),
           ('samsung', '삼성 서초사옥', 'tower', ['landmark:samsung_e', 'landmark:samsung_c', 'landmark:samsung_l']), ('centerfield', '센터필드', 'tower', ['landmark:cf_e', 'landmark:cf_w']),
           ('gs', 'GS타워', 'tower', ['landmark:gs']), ('meritz', '메리츠타워', 'tower', ['landmark:meritz']), ('glass', '글라스타워', 'tower', ['landmark:glass']),
-          ('millennium', '코엑스 밀레니엄 광장', 'landmark', ['landmark:millennium'])]   # 삼성역 광장의 선큰 마당(plaza_samseong.py)
+          ('millennium', '코엑스 밀레니엄 광장', 'landmark', ['landmark:millennium'])]   # 삼성역 광장의 원형 광장(plaza_samseong.py)
 LM_AREA = [('seolleung', '선릉과 정릉(선정릉)', [('grass', '삼릉공원 / 서울 선릉과 정릉')])]
 STEPS = ['cache', 'quant', 'maps', 'tiles', 'mapjson']
 

diff --git a/pipeline3d/yeouido/gen_area.py b/pipeline3d/yeouido/gen_area.py
@@ -1100,7 +1100,7 @@ for g in parts(LAND):
     for t in shapely.constrained_delaunay_triangles(g).geoms:
         q = list(orient(t, 1.0).exterior.coords)[:-1]; mb.face([(x, y, 0.0) for x, y in q], gmat, [uvw(x, y) for x, y in q])
 STEPP = STEPZ.buffer(1.0); shapely.prepare(STEPP); nsk = 0
-NOSK = globals().get('NOSKIRT')   # 지역 빌더가 둘레를 직접 세우는 구덩이(선큰 광장 등): 이 안의 물가 변에는 비탈을 두르지 않는다
+NOSK = globals().get('NOSKIRT')   # 지역 빌더가 둘레를 직접 세우는 구덩이(광장의 내리막 계단 등): 이 안의 물가 변에는 비탈을 두르지 않는다
 for g in parts(WATERc):
     g = orient(g, 1.0)
     for ring in [g.exterior] + list(g.interiors):
